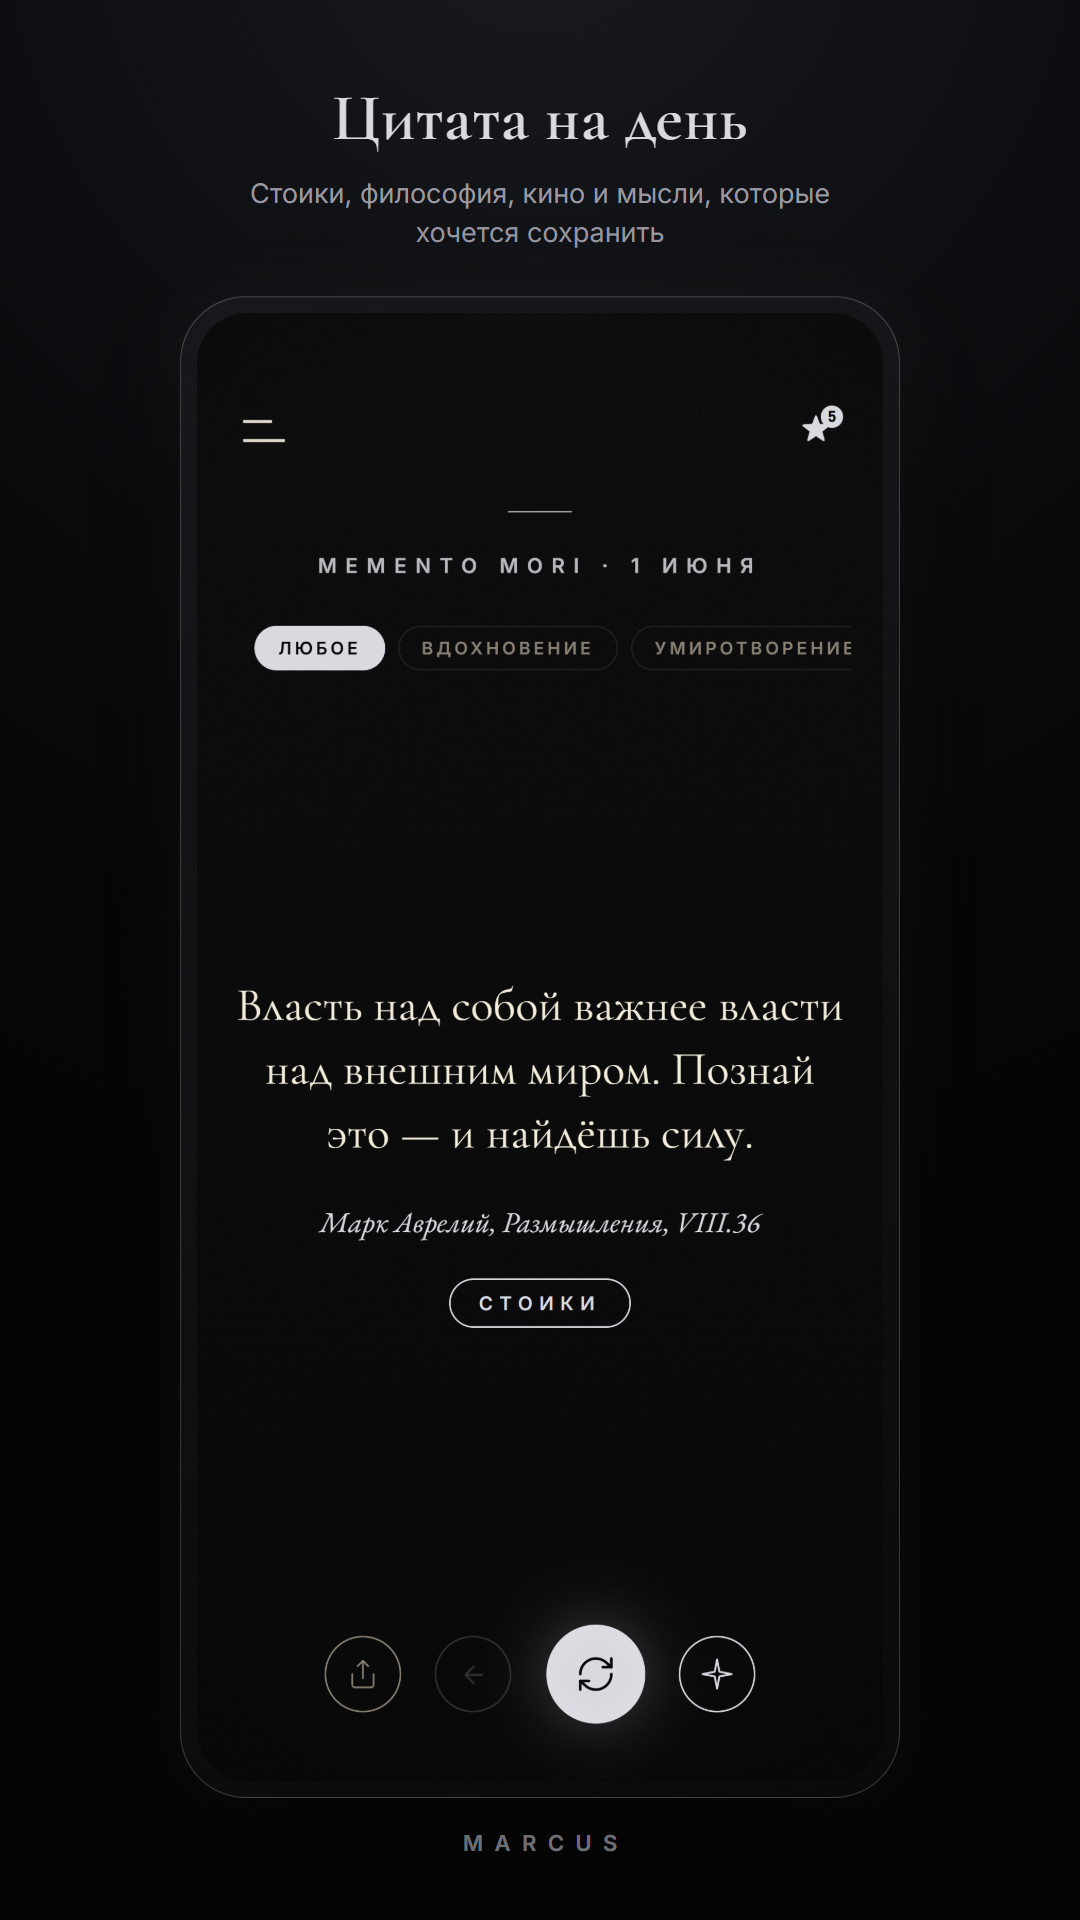
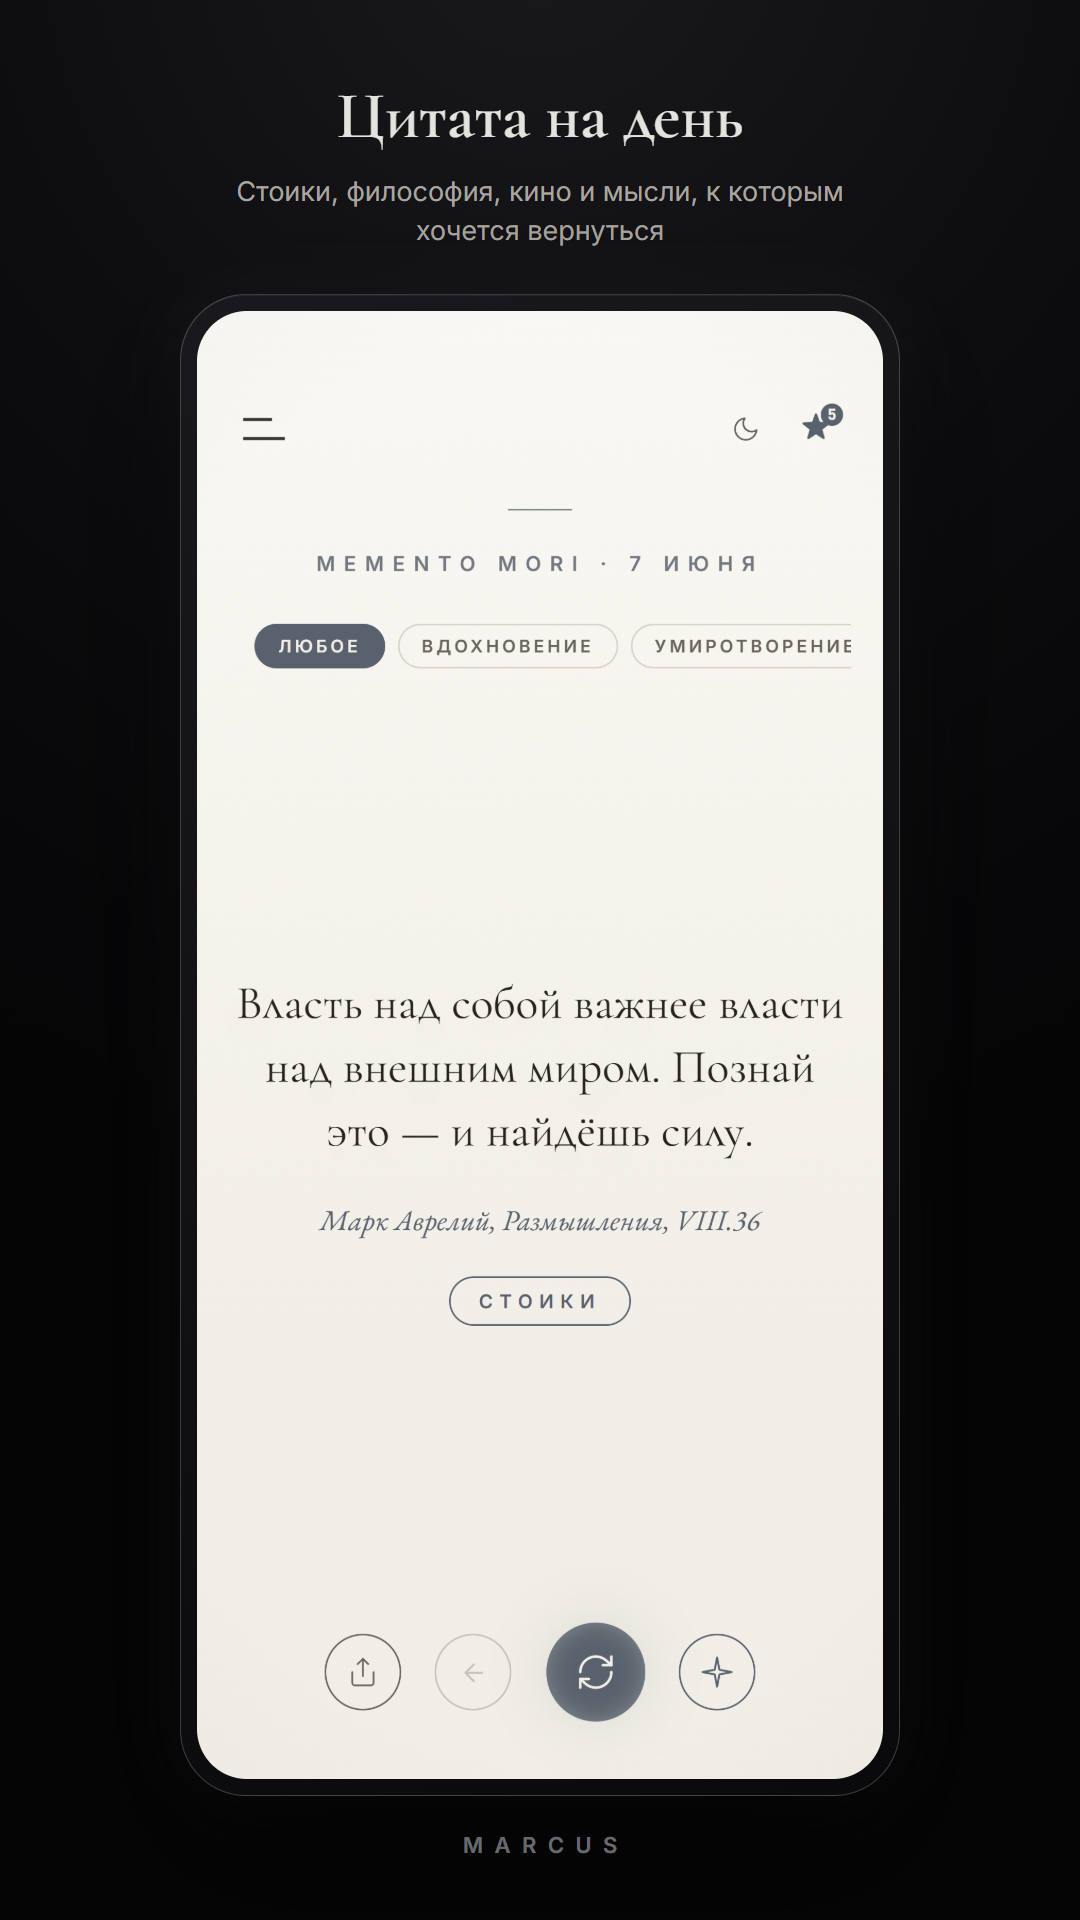
update latest downloads and screenshot

diff --git a/README.md b/README.md
@@ -28,10 +28,10 @@
 
 | Платформа | Файл |
 | --- | --- |
-| Windows | [Setup .exe](https://github.com/vincere-mori/marcus/releases/download/v1.0.0/Marcus_1.0.0_x64-setup.exe) / [MSI](https://github.com/vincere-mori/marcus/releases/download/v1.0.0/Marcus_1.0.0_x64_en-US.msi) |
-| macOS | [DMG](https://github.com/vincere-mori/marcus/releases/download/v1.0.0/Marcus_1.0.0_universal.dmg) |
-| Linux | [AppImage](https://github.com/vincere-mori/marcus/releases/download/v1.0.0/Marcus_1.0.0_amd64.AppImage) / [DEB](https://github.com/vincere-mori/marcus/releases/download/v1.0.0/Marcus_1.0.0_amd64.deb) / [RPM](https://github.com/vincere-mori/marcus/releases/download/v1.0.0/Marcus-1.0.0-1.x86_64.rpm) |
-| Android | [APK](https://github.com/vincere-mori/marcus/releases/download/v1.0.0/Marcus-v1.0.0-android.apk) |
+| Windows | [Setup .exe](https://github.com/vincere-mori/marcus/releases/latest/download/Marcus-Windows-x64-Setup.exe) / [MSI](https://github.com/vincere-mori/marcus/releases/latest/download/Marcus-Windows-x64.msi) |
+| macOS | [DMG](https://github.com/vincere-mori/marcus/releases/latest/download/Marcus-macOS-universal.dmg) |
+| Linux | [AppImage](https://github.com/vincere-mori/marcus/releases/latest/download/Marcus-Linux-x86_64.AppImage) / [DEB](https://github.com/vincere-mori/marcus/releases/latest/download/Marcus-Linux-amd64.deb) / [RPM](https://github.com/vincere-mori/marcus/releases/latest/download/Marcus-Linux-x86_64.rpm) |
+| Android | [APK](https://github.com/vincere-mori/marcus/releases/latest/download/Marcus-Android.apk) |
 
 В браузере: [vincere-mori.github.io/marcus](https://vincere-mori.github.io/marcus/)
 
@@ -62,10 +62,10 @@ It brings together stoicism, philosophy, cinema, military notes and short lines 
 
 | Platform | Build |
 | --- | --- |
-| Windows | [Setup .exe](https://github.com/vincere-mori/marcus/releases/download/v1.0.0/Marcus_1.0.0_x64-setup.exe) / [MSI](https://github.com/vincere-mori/marcus/releases/download/v1.0.0/Marcus_1.0.0_x64_en-US.msi) |
-| macOS | [DMG](https://github.com/vincere-mori/marcus/releases/download/v1.0.0/Marcus_1.0.0_universal.dmg) |
-| Linux | [AppImage](https://github.com/vincere-mori/marcus/releases/download/v1.0.0/Marcus_1.0.0_amd64.AppImage) / [DEB](https://github.com/vincere-mori/marcus/releases/download/v1.0.0/Marcus_1.0.0_amd64.deb) / [RPM](https://github.com/vincere-mori/marcus/releases/download/v1.0.0/Marcus-1.0.0-1.x86_64.rpm) |
-| Android | [APK](https://github.com/vincere-mori/marcus/releases/download/v1.0.0/Marcus-v1.0.0-android.apk) |
+| Windows | [Setup .exe](https://github.com/vincere-mori/marcus/releases/latest/download/Marcus-Windows-x64-Setup.exe) / [MSI](https://github.com/vincere-mori/marcus/releases/latest/download/Marcus-Windows-x64.msi) |
+| macOS | [DMG](https://github.com/vincere-mori/marcus/releases/latest/download/Marcus-macOS-universal.dmg) |
+| Linux | [AppImage](https://github.com/vincere-mori/marcus/releases/latest/download/Marcus-Linux-x86_64.AppImage) / [DEB](https://github.com/vincere-mori/marcus/releases/latest/download/Marcus-Linux-amd64.deb) / [RPM](https://github.com/vincere-mori/marcus/releases/latest/download/Marcus-Linux-x86_64.rpm) |
+| Android | [APK](https://github.com/vincere-mori/marcus/releases/latest/download/Marcus-Android.apk) |
 
 Web app: [vincere-mori.github.io/marcus](https://vincere-mori.github.io/marcus/)
 
